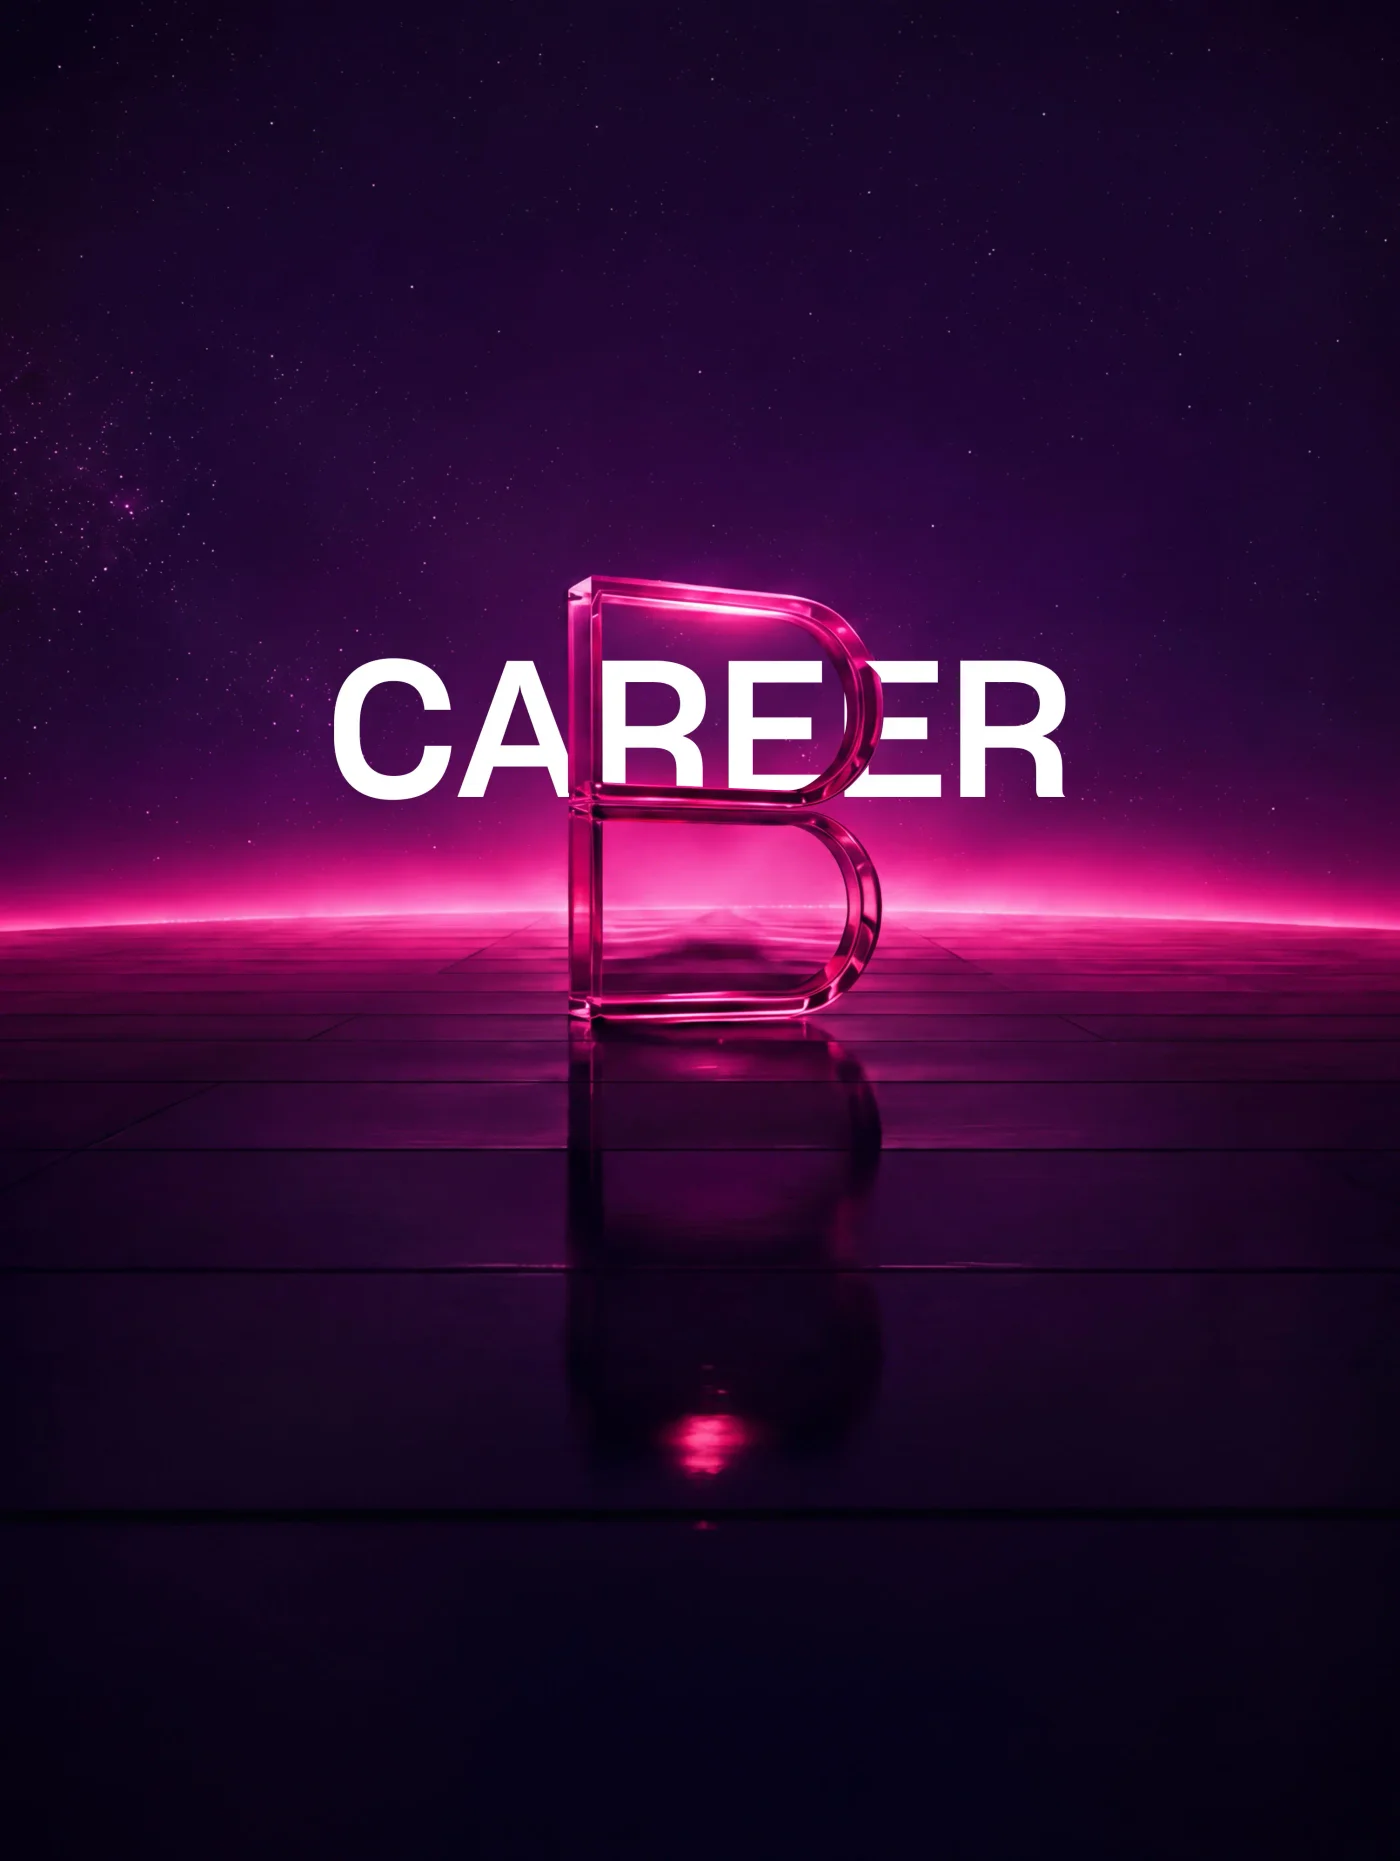
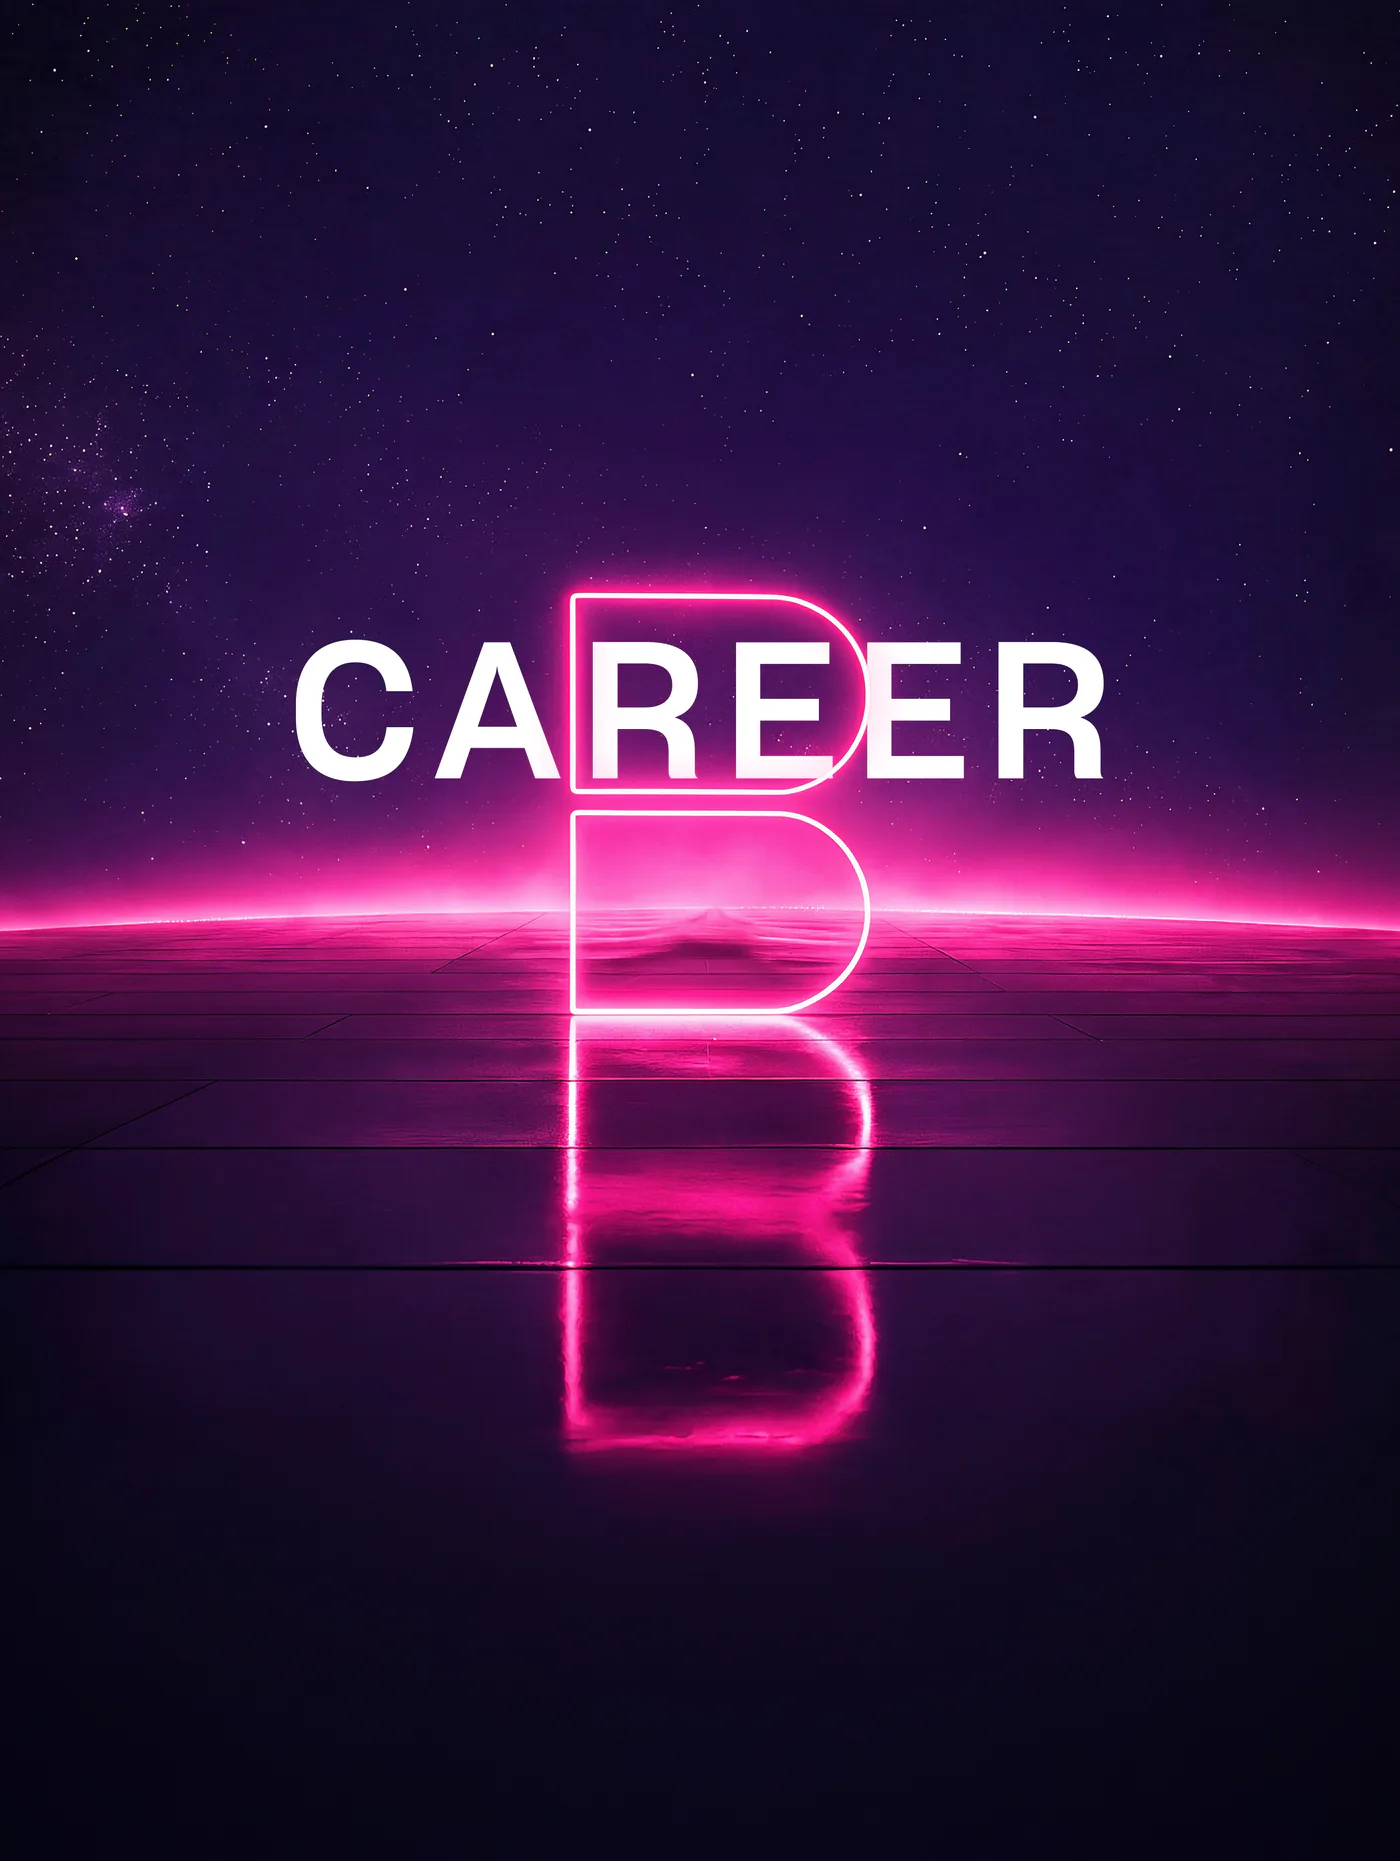
Update responsive hero visuals

Changed region(s): [[0.0614, 0.2805, 1.0, 0.8415], [0.0614, 0.2493, 0.0921, 0.2805]]

diff --git a/src/components/cinematic/AlgarveHome.tsx b/src/components/cinematic/AlgarveHome.tsx
@@ -76,6 +76,7 @@ export function AlgarveHome({
   statement,
   statementKey,
   frame3 = "/hero-v2/frame-3.webp",
+  entryAnimation = "sequence",
   parallaxExit = false,
 }: {
   /** "home" = Magenta-Übergangszone; "companies" = dunkler moody Staub + Statement */
@@ -86,6 +87,9 @@ export function AlgarveHome({
   statementKey?: "career" | "news";
   /** Frame 3 (Typo-Bild) — je Seite passend, z. B. „/hero-v2/frame-3-career.webp" */
   frame3?: string;
+  /** Home spielt Licht aus → Licht an → Typo. News/Career starten direkt mit
+   *  dem hellen Grundmotiv; nur ihr finales Typo-Visual blendet darüber ein. */
+  entryAnimation?: "sequence" | "direct";
   /** News-Page: das Statement driftet beim Verlassen als Parallax nach unten (lag)
    *  → weicher, tiefengestaffelter Übergang in den darunterliegenden News-Feed. */
   parallaxExit?: boolean;
@@ -93,6 +97,7 @@ export function AlgarveHome({
   const copy = copyFor(useLocale());
   const localizedStatement = statementKey === "career" ? copy.career.statement : statementKey === "news" ? copy.news.statement : statement;
   const dark = variant === "companies";
+  const directEntry = entryAnimation === "direct";
   const root = useRef<HTMLDivElement>(null);
   const heroImg = useRef<HTMLImageElement>(null); // Frame 1 (dunkel)
   const heroImgB = useRef<HTMLImageElement>(null); // Frame 2 (wird lebendig)
@@ -103,13 +108,27 @@ export function AlgarveHome({
   // beim Scrollen (Section-Radius + Zirkel-Kontur).
   const curveP = useRef(0);
 
-  // 3-FRAME-EINBLEND-ANIMATION (Wolfram 14.07.): nach der Intro spielt der Hero
-  // eine kurze Sequenz — ① dunkler Screen blendet weich auf (langsam heller),
-  // ② Frame 2 blendet transparent → klar ein (wird lebendig, leuchtet mehr),
-  // ③ Frame 3 blendet ein und bringt die Font „We Are Banijay" in den Hintergrund.
+  // HOME: 3-FRAME-EINBLEND-ANIMATION (Wolfram 14.07.): nach der Intro spielt der
+  // Hero ① dunkel → ② Licht an → ③ Typo. NEWS/CAREER (Wolfram 24.08.) starten
+  // dagegen direkt auf Frame 2; dort blendet ausschließlich Frame 3 mit dem
+  // Seitentitel ein. Dadurch gibt es auf den Unterseiten keine Wiederholung der
+  // Home-Lichtsequenz und Frame 1 wird dort gar nicht geladen.
   useEffect(() => {
-    const f1 = heroImg.current, f2 = heroImgB.current, f3 = heroImg3.current;
-    if (!f1 || !f2 || !f3) return;
+    const f2 = heroImgB.current, f3 = heroImg3.current;
+    if (!f2 || !f3) return;
+
+    if (directEntry) {
+      gsap.set(f2, { opacity: 1 });
+      if (window.matchMedia("(prefers-reduced-motion: reduce)").matches) {
+        gsap.set(f3, { opacity: 1 });
+      } else {
+        gsap.to(f3, { opacity: 1, duration: 1.15, delay: 0.08, ease: "sine.inOut" });
+      }
+      return () => gsap.killTweensOf([f2, f3]);
+    }
+
+    const f1 = heroImg.current;
+    if (!f1) return;
     let played = false;
     const play = () => {
       if (played) return;
@@ -144,7 +163,7 @@ export function AlgarveHome({
       window.clearTimeout(soft);
       window.clearTimeout(fallback);
     };
-  }, []);
+  }, [directEntry]);
 
   useGSAP(
     () => {
@@ -176,8 +195,11 @@ export function AlgarveHome({
           onUpdate: (self) => applyCurve(self.progress),
         });
         // Ruhiges „Atmen": beide Visuals zoomen langsam (behält Leben ohne Linse).
+        const breathingVisuals = [heroImg.current, heroImgB.current, heroImg3.current].filter(
+          (visual): visual is HTMLImageElement => visual !== null,
+        );
         gsap.fromTo(
-          [heroImg.current, heroImgB.current, heroImg3.current],
+          breathingVisuals,
           { scale: 1.06 },
           { scale: 1.14, duration: 26, ease: "sine.inOut", yoyo: true, repeat: -1 },
         );
@@ -309,9 +331,9 @@ export function AlgarveHome({
           <DustLayer boost={0.8} center={{ x: 0.5, y: 0.62 }} radius={0.85} />
         </div>
 
-        {/* 3-FRAME-VISUAL (Wolfram 14.07.): Frame 1 dunkel (Base, blendet weich auf),
-            Frame 2 „wird lebendig", Frame 3 mit der Font „We Are Banijay" — blenden
-            per Sequenz (useEffect) transparent → klar übereinander.
+        {/* HOME: Frame 1 dunkel, Frame 2 „wird lebendig", Frame 3 mit Typo — per
+            Sequenz übereinander. NEWS/CAREER: Frame 2 steht sofort; nur das jeweilige
+            Frame 3 mit Seitentitel blendet ein. Frame 1 wird dort nicht gerendert.
 
             MOBILE-MOTIVE (Wolfram 17.07.): Auf schmalen Viewports laufen eigene, im
             HOCHFORMAT gesetzte Fassungen (0.75 statt 1.35) — das sind neu gesetzte
@@ -322,19 +344,21 @@ export function AlgarveHome({
             Blend-Sequenz sind damit unberührt. `contents` am <picture>, damit der Wrapper
             keine eigene Box erzeugt und die absolute Positionierung der <img> exakt so
             aufgeht wie vorher. */}
-        <picture className="contents">
-          <source media={MOBILE_MQ} srcSet="/hero-v2/frame-1-mobile.webp" />
-          <img
-            ref={heroImg}
-            src="/hero-v2/frame-1.webp"
-            alt=""
-            draggable={false}
-            className="pointer-events-none absolute inset-0 h-full w-full object-cover"
-            // Startet UNSICHTBAR (Wolfram 15.07.): der Hero baut sich erst auf, wenn der
-            // Preloader komplett weg ist — vorher keine sichtbare Veränderung, kein Flackern.
-            style={{ zIndex: 0, opacity: 0, filter: "saturate(1.04)", transform: "scale(1.06)", objectPosition: "50% 50%" }}
-          />
-        </picture>
+        {!directEntry && (
+          <picture className="contents">
+            <source media={MOBILE_MQ} srcSet="/hero-v2/frame-1-mobile.webp" />
+            <img
+              ref={heroImg}
+              src="/hero-v2/frame-1.webp"
+              alt=""
+              draggable={false}
+              className="pointer-events-none absolute inset-0 h-full w-full object-cover"
+              // Startet UNSICHTBAR (Wolfram 15.07.): der Hero baut sich erst auf, wenn der
+              // Preloader komplett weg ist — vorher keine sichtbare Veränderung, kein Flackern.
+              style={{ zIndex: 0, opacity: 0, filter: "saturate(1.04)", transform: "scale(1.06)", objectPosition: "50% 50%" }}
+            />
+          </picture>
+        )}
         <picture className="contents">
           <source media={MOBILE_MQ} srcSet="/hero-v2/frame-2-mobile.webp" />
           <img
@@ -343,7 +367,7 @@ export function AlgarveHome({
             alt=""
             draggable={false}
             className="pointer-events-none absolute inset-0 h-full w-full object-cover"
-            style={{ zIndex: 0, opacity: 0, filter: "saturate(1.04)", transform: "scale(1.06)", objectPosition: "50% 50%" }}
+            style={{ zIndex: 0, opacity: directEntry ? 1 : 0, filter: "saturate(1.04)", transform: "scale(1.06)", objectPosition: "50% 50%" }}
           />
         </picture>
         <picture className="contents">

diff --git a/src/app/(frontend)/en/news/page.tsx b/src/app/(frontend)/en/news/page.tsx
@@ -17,7 +17,7 @@ export default async function NewsPageEn() {
 
   return (
     <>
-      <AlgarveHome variant="companies" frame3="/hero-v2/frame-3-news.webp" statementKey="news" parallaxExit />
+      <AlgarveHome variant="companies" frame3="/hero-v2/frame-3-news.webp" entryAnimation="direct" statementKey="news" parallaxExit />
       <section className="py-20 lg:py-28" style={{ background: "transparent" }}>
         <div className="mx-auto w-full px-6 max-[767px]:!px-6 lg:px-[2.5vw]" style={{ maxWidth: "1840px" }}>
           <NewsSections items={feed} />

diff --git a/src/app/(frontend)/news/page.tsx b/src/app/(frontend)/news/page.tsx
@@ -26,6 +26,7 @@ export default async function NewsPage() {
       <AlgarveHome
         variant="companies"
         frame3="/hero-v2/frame-3-news.webp"
+        entryAnimation="direct"
         statementKey="news"
         parallaxExit
       />

diff --git a/src/app/(frontend)/career/page.tsx b/src/app/(frontend)/career/page.tsx
@@ -46,6 +46,7 @@ export async function CareerPageContent({
       <AlgarveHome
         variant="companies"
         frame3="/hero-v2/frame-3-career.webp"
+        entryAnimation="direct"
         statementKey="career"
       />
 

diff --git a/README.md b/README.md
@@ -13,11 +13,14 @@ Sticky-Nav, Bildcontainer nutzen native Seitenverhältnisse und Fokuspunkte. Das
 News-Grid ist ein CSS-Grid-Masonry mit nativen Thumbnail-Proportionen + Feature-Karten
 (2 Spalten) und berechneten Row-Spans. Scroll-getriebene Zähler laufen über
 ScrollTrigger (nicht IntersectionObserver), damit sie exakt beim Sichtbarwerden starten.
-Alle Subpages (Career/News/Contact) teilen sich denselben **Home-Hero**
-(`AlgarveHome`): die „We Are Banijay"-Frame-Sequenz + auffächernde Satellitenringe auf
-dunklem Sternenstaub, darunter das seiteneigene Statement mittelachsig. Frame 3 ist je
-Seite passend (`/hero-v2/frame-3-<page>.webp`, z. B. „ABOUT"/„CAREER"; alle Hero-Motive
-sind kundenseitig komprimierte WebP). Ein globaler
+Home und Subpages teilen sich dieselbe **Hero-Bühne** (`AlgarveHome`) mit auffächernden
+Satellitenringen auf dunklem Sternenstaub und dem seiteneigenen Statement darunter. Nur
+die Home spielt die vollständige Drei-Frame-Sequenz „Licht aus“ → „Licht an“ →
+„We Are Banijay“. News und Career starten direkt auf dem hellen Grundmotiv und blenden
+nur ihr finales Typo-Visual ein; das dunkle erste Frame wird auf diesen Unterseiten nicht
+geladen. Frame 3 ist je Seite passend (`/hero-v2/frame-3-<page>.webp`, z. B. „NEWS“ oder
+„CAREER“). Alle Hero-Motive liegen als getrennte, weboptimierte Desktop- und Mobile-WebPs
+vor. Ein globaler
 `MoodBackdrop` mit ambient Sternenstaub liegt fix hinter allen Seiten.
 
 **Redesign V2 (Branch `redesign-v2`):** die Site ist auf einen durchgehenden dark/moody

diff --git a/CHANGELOG.md b/CHANGELOG.md
@@ -3,6 +3,26 @@
 Alle nennenswerten Änderungen an diesem Projekt. Format angelehnt an
 [Keep a Changelog](https://keepachangelog.com/de/1.1.0/).
 
+## [main] — 2026-08-25
+
+### Hero-Visuals erneuert und Unterseiten-Einstieg vereinfacht
+
+- **Neue Hero-Motive:** Die Desktop- und Mobile-Visuals für Home, News und Career
+  wurden durch die neuen kundenseitigen Motive ersetzt und aus den JPEG-Mastern
+  als optimierte WebP-Dateien exportiert.
+- **Home-Sequenz bewahrt:** Auf der Startseite bleibt die bestehende Abfolge aus
+  „Licht aus“, „Licht an“ und finalem Typo-Visual einschließlich ihrer Animation
+  unverändert erhalten.
+- **News und Career starten direkt:** Die Unterseiten zeigen beim Einstieg sofort
+  das helle Grundmotiv; nur das jeweilige News- beziehungsweise Career-Typo-Visual
+  blendet darüber ein. Das dunkle erste Home-Frame wird dort weder gerendert noch
+  geladen.
+- **Responsive Fassungen:** Alle sechs Motive liegen weiterhin getrennt für Desktop
+  und Mobile vor. Die Mobile-Dateien sind auf 1400 px Breite begrenzt, um den
+  Decode-Speicher auf schmalen Geräten kontrolliert zu halten.
+- **Verifiziert:** Home-, News- und Career-Hero wurden in Desktop- und Mobile-Preview
+  geprüft; TypeScript, ESLint und Produktions-Build laufen fehlerfrei durch.
+
 ## [main] — 2026-08-12
 
 ### Markenbezeichnung auf „Banijay Germany“ präzisiert

diff --git a/AGENTS.md b/AGENTS.md
@@ -1,5 +1,9 @@
 <!-- BEGIN:nextjs-agent-rules -->
+
 # This is NOT the Next.js you know
 
-This version has breaking changes — APIs, conventions, and file structure may all differ from your training data. Read the relevant guide in `node_modules/next/dist/docs/` before writing any code. Heed deprecation notices.
+This version has breaking changes — APIs, conventions, and file structure may all differ from your training data. Read the relevant guide in `node_modules/next/dist/docs/` (resolved from this file's directory; in monorepos the `next` package may not be visible from the repo root) before writing any code. Heed deprecation notices.
+
+This block is written and re-added by `next dev` — verify at `node_modules/next/dist/server/lib/generate-agent-files.js`. Removing it from a diff only re-creates the uncommitted change; committing it with your work keeps the tree clean.
+
 <!-- END:nextjs-agent-rules -->
